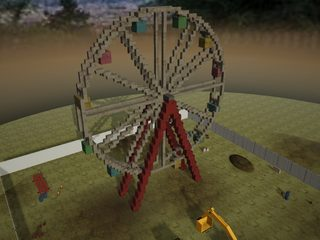
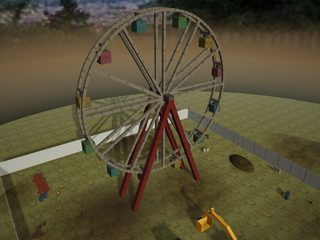
斜めの部材と丸い壁をなめらかな棒・板で描く、球場のグラウンド、照明塔のライト、鉄塔の筋交いを粗く

diff --git a/game.js b/game.js
@@ -331,12 +331,82 @@ const G = window.G = {};   // 確かめ用の口
     houseW(10, 50, 8, 8, 5, BIG);
     addFence(gx(-14), gz(26), 20, 3, "block"); addFence(gx(28), gz(12), 16, 3, "block");
   }
-  // 3D の線を格子で引く（a・b は格子の座標・小数でよい。kf は高さ y から種類を返す）
+  // なめらかな部材（10-26 本人「観覧車とか斜めの所がカクカクでマイクラみたい」）
+  // 斜めの棒・丸い壁は格子を隠し（c.hid）、本物の角棒・曲がった板で描く。格子は削る判定・崩れの判定のために残す
+  // 部材は 1.5m ほどの区間に切ってあり、区間のどこか 1 マスが削れると、その区間の絵が消える
+  const rods = []; let rodDirty = false, rodMesh = null;
+  function newRod(o) { const r = Object.assign({ cells: [], alive: true, ext: true }, o); rods.push(r); rodDirty = true; return r; }
+  function rodCell(r, x, y, z, kind) {
+    const k = key(x, y, z), had = bld.cells.get(k); addCell(x, y, z, kind);
+    const c = bld.cells.get(k); if (!had) c.hid = true;
+    (c.segs || (c.segs = [])).push(r); r.cells.push(c);
+  }
+  // 角棒（a→b、太さ t。u と w を渡すと横幅 w の板）を足す
+  function pushRod(r, pos, nor, uv, col, idx) {
+    if (r.wedge) return pushWedge(r, pos, nor, uv, col, idx);
+    const d = r.b.subtract(r.a), L = d.length(); if (L < 1e-4) return;
+    const w = d.scale(1 / L), e = r.ext ? r.t / 2 : 0;
+    const u = r.u || B.Vector3.Cross(w, Math.abs(w.y) < 0.9 ? B.Axis.Y : B.Axis.X).normalize(), v = B.Vector3.Cross(u, w).normalize();
+    const hu = (r.w || r.t) / 2, hv = r.t / 2, a = r.a.subtract(w.scale(e)), L2 = L + 2 * e, k = KIND_COL[r.kind];
+    const P = (i, j, s2) => a.add(w.scale(s2 * L2)).addInPlace(u.scale(i * hu)).addInPlace(v.scale(j * hv));
+    const quad = (ps, n, du, dv) => { const b0 = pos.length / 3; ps.forEach((q, i) => { pos.push(q.x, q.y, q.z); nor.push(n.x, n.y, n.z); uv.push([0, du, du, 0][i] / TEXM, [0, 0, dv, dv][i] / TEXM); col.push(k[0], k[1], k[2], 1); }); idx.push(b0, b0 + 1, b0 + 2, b0, b0 + 2, b0 + 3); };
+    quad([P(1, -1, 0), P(1, 1, 0), P(1, 1, 1), P(1, -1, 1)], u, 2 * hv, L2); quad([P(-1, -1, 0), P(-1, 1, 0), P(-1, 1, 1), P(-1, -1, 1)], u.negate(), 2 * hv, L2);
+    quad([P(-1, 1, 0), P(1, 1, 0), P(1, 1, 1), P(-1, 1, 1)], v, 2 * hu, L2); quad([P(-1, -1, 0), P(1, -1, 0), P(1, -1, 1), P(-1, -1, 1)], v.negate(), 2 * hu, L2);
+    quad([P(-1, -1, 1), P(1, -1, 1), P(1, 1, 1), P(-1, 1, 1)], w, 2 * hu, 2 * hv); quad([P(-1, -1, 0), P(1, -1, 0), P(1, 1, 0), P(-1, 1, 0)], w.negate(), 2 * hu, 2 * hv);
+  }
+  // 丸い板の一切れ（タンクの底・ふた）
+  function pushWedge(r, pos, nor, uv, col, idx) {
+    const k = KIND_COL[r.kind], C = (y) => new B.Vector3(r.c.x, y, r.c.z), A = (t, y) => new B.Vector3(r.c.x + Math.cos(t) * r.rad, y, r.c.z + Math.sin(t) * r.rad);
+    const tri = (ps, n) => { const b0 = pos.length / 3; for (const q of ps) { pos.push(q.x, q.y, q.z); nor.push(n.x, n.y, n.z); uv.push(q.x / TEXM, q.z / TEXM); col.push(k[0], k[1], k[2], 1); } if (ps.length === 3) idx.push(b0, b0 + 1, b0 + 2); else idx.push(b0, b0 + 1, b0 + 2, b0, b0 + 2, b0 + 3); };
+    tri([C(r.y1), A(r.t0, r.y1), A(r.t1, r.y1)], B.Axis.Y); tri([C(r.y0), A(r.t0, r.y0), A(r.t1, r.y0)], B.Axis.Y.negate());
+    const tm = (r.t0 + r.t1) / 2; tri([A(r.t0, r.y0), A(r.t1, r.y0), A(r.t1, r.y1), A(r.t0, r.y1)], new B.Vector3(Math.cos(tm), 0, Math.sin(tm)));
+  }
+  function rebuildRods() {
+    rodDirty = false;
+    if (!rodMesh) { rodMesh = new B.Mesh("rods", scene); rodMesh.material = bldM; rodMesh.receiveShadows = true; rodMesh.isPickable = false; shadow.addShadowCaster(rodMesh); }
+    const pos = [], nor = [], uv = [], col = [], idx = [];
+    for (const r of rods) if (r.alive) pushRod(r, pos, nor, uv, col, idx);
+    if (!idx.length) { rodMesh.setEnabled(false); return; }
+    const vd = new B.VertexData(); vd.positions = pos; vd.normals = nor; vd.uvs = uv; vd.colors = col; vd.indices = idx; vd.applyToMesh(rodMesh, false); rodMesh.setEnabled(true);
+  }
+  const gw = (gxv, gyv, gzv) => new B.Vector3(bld.origin.x + gxv * CELL, bld.origin.y + gyv * CELL, bld.origin.z + gzv * CELL);   // 格子の座標（小数）→ 世界の位置
+  // 3D の線を格子で引き、見た目は角棒（a・b は格子の座標・小数でよい。kf は高さ y から種類を返す）
   function lineCells(a, b, kf, th = 1) {
-    const n = Math.max(1, Math.ceil(Math.hypot(b[0] - a[0], b[1] - a[1], b[2] - a[2]) * 2));
+    const n = Math.max(1, Math.ceil(Math.hypot(b[0] - a[0], b[1] - a[1], b[2] - a[2]) * 2)), PER = 6;
+    const W = t => gw(a[0] + (b[0] - a[0]) * t + th / 2, a[1] + (b[1] - a[1]) * t + 0.5, a[2] + (b[2] - a[2]) * t + th / 2);
+    let r = null;
     for (let i = 0; i <= n; i++) {
       const t = i / n, x = Math.round(a[0] + (b[0] - a[0]) * t), y = Math.round(a[1] + (b[1] - a[1]) * t), z = Math.round(a[2] + (b[2] - a[2]) * t);
-      for (let dx = 0; dx < th; dx++) for (let dz = 0; dz < th; dz++) if (y >= 0) addCell(x + dx, y, z + dz, kf(y));
+      if (i % PER === 0 && i < n) { const t1 = Math.min(1, (i + PER) / n); r = newRod({ a: W(t), b: W(t1), t: th * CELL * 0.8, kind: kf(Math.round(a[1] + (b[1] - a[1]) * (t + t1) / 2)) }); }
+      for (let dx = 0; dx < th; dx++) for (let dz = 0; dz < th; dz++) if (y >= 0) rodCell(r, x + dx, y, z + dz, kf(y));
+    }
+  }
+  // 丸い壁（煙突・タンク）: 中心 cx,cz（格子の角）、半径は高さで変えられる rf(y)、厚さ th マス。見た目は 32 枚の曲がった板を帯ごとに
+  function ringWall(cx, cz, y0, y1, rf, th, kf, band) {
+    const NS = 32, segs = new Map();
+    const seg = (i, j) => {
+      const id = i + "," + j; if (segs.has(id)) return segs.get(id);
+      const ya = y0 + j * band, yb = Math.min(y1, ya + band), rm = rf((ya + yb) / 2) - th / 2, tm = (i + 0.5) / NS * Math.PI * 2;
+      const r = newRod({ a: gw(cx + rm * Math.cos(tm), ya, cz + rm * Math.sin(tm)), b: gw(cx + rm * Math.cos(tm), yb, cz + rm * Math.sin(tm)), t: th * CELL, w: 2 * Math.PI * rm * CELL / NS * 1.06,
+        u: new B.Vector3(-Math.sin(tm), 0, Math.cos(tm)), kind: kf(ya), ext: false });
+      segs.set(id, r); return r;
+    };
+    const R = Math.ceil(rf(y0)) + 1;
+    for (let y = y0; y < y1; y++) for (let x = -R; x <= R; x++) for (let z = -R; z <= R; z++) {
+      const rr = Math.hypot(x + 0.5, z + 0.5), ro = rf(y); if (rr > ro || rr <= ro - th) continue;
+      let t = Math.atan2(z + 0.5, x + 0.5); if (t < 0) t += Math.PI * 2;
+      rodCell(seg(Math.min(NS - 1, Math.floor(t / (Math.PI * 2) * NS)), Math.floor((y - y0) / band)), cx + x, y, cz + z, kf(y));
+    }
+  }
+  // 丸い板（タンクの底・ふた）: 16 切れ
+  function discCells(cx, cz, y0, y1, rad, kind) {
+    const NS = 16, cw = gw(cx, 0, cz), list = [];
+    for (let i = 0; i < NS; i++) list.push(newRod({ wedge: true, c: cw, rad: rad * CELL, t0: i / NS * Math.PI * 2, t1: (i + 1) / NS * Math.PI * 2, y0: bld.origin.y + y0 * CELL, y1: bld.origin.y + y1 * CELL, kind }));
+    const R = Math.ceil(rad);
+    for (let y = y0; y < y1; y++) for (let x = -R; x <= R; x++) for (let z = -R; z <= R; z++) {
+      if (Math.hypot(x + 0.5, z + 0.5) > rad) continue;
+      let t = Math.atan2(z + 0.5, x + 0.5); if (t < 0) t += Math.PI * 2;
+      rodCell(list[Math.min(NS - 1, Math.floor(t / (Math.PI * 2) * NS))], cx + x, y, cz + z, kind);
     }
   }
   // 送電の鉄塔: 4 本の脚がすぼまって高さ 40m。4m ごとに輪とバツの筋交い、上に 3 段の腕。赤白のしま
@@ -344,10 +414,10 @@ const G = window.G = {};   // 確かめ用の口
     const cx = gx(wx), cz = gz(wz), Hc = 80, w = y => 12 - 10 * y / Hc, kf = y => Math.floor(y / 16) % 2 ? "twr_w" : "twr_r";
     newB(6, true); curB.topple = true;
     const C = [[-1, -1], [1, -1], [1, 1], [-1, 1]];
-    for (let y = 0; y <= Hc; y++) for (const [sx, sz] of C) { const x = Math.round(cx + sx * w(y)), z = Math.round(cz + sz * w(y)); for (let a = -1; a < 1; a++) for (let b2 = -1; b2 < 1; b2++) addCell(x + a, y, z + b2, kf(y)); }
-    const P = (i, y) => [cx + C[i][0] * w(y), y, cz + C[i][1] * w(y)];
-    for (let y = 0; y < Hc; y += 10) {
-      const y2 = Math.min(Hc, y + 10);
+    const P = (i, y) => [cx + C[i][0] * w(y), y, cz + C[i][1] * w(y)], P2 = (i, y) => [cx + C[i][0] * w(y) - 1, y, cz + C[i][1] * w(y) - 1];
+    for (let i = 0; i < 4; i++) lineCells(P2(i, 0), P2(i, Hc), kf, 2);
+    for (let y = 0; y < Hc; y += 16) {
+      const y2 = Math.min(Hc, y + 16);
       for (let i = 0; i < 4; i++) { const j = (i + 1) % 4; lineCells(P(i, y2), P(j, y2), kf); lineCells(P(i, y), P(j, y2), kf); lineCells(P(j, y), P(i, y2), kf); }
     }
     for (const [ay, half] of [[58, 16], [68, 13], [78, 10]]) {
@@ -380,17 +450,15 @@ const G = window.G = {};   // 確かめ用の口
       newB(6, true); curB.topple = true;
       const x = gx(wx), z = gz(wz);
       for (let y = 0; y < 52; y++) for (let a = 0; a < 2; a++) for (let b2 = 0; b2 < 2; b2++) addCell(x + a, y, z + b2, y > 46 ? "twr_w" : "conc");
-      for (let y = 52; y < 58; y++) for (let a = -4; a < 6; a++) for (let b2 = 0; b2 < 2; b2++) addCell(x + a, y, z + b2, "twr_w");
+      for (let y = 52; y < 58; y++) for (let a = -4; a < 6; a++) for (let b2 = 0; b2 < 2; b2++) addCell(x + a, y, z + b2, y === 52 || y === 57 || a === -4 || a === 5 ? "steelc" : (a + y) % 2 ? "lamp" : "twr_w");   // ライトの升目
     }
   }
   // 工場の煙突: れんがの筒（下 3m・上 2.2m の半径、高さ 44m、上 10m は赤白）＋横にトタンの工場
   function buildChimney(wx, wz) {
     const cx = gx(wx), cz = gz(wz), Hc = 88;
     newB(6, true); curB.topple = true;
-    for (let y = 0; y < Hc; y++) {
-      const ro = 6 - 1.6 * y / Hc, ri = ro - 2, kind = y < Hc - 20 ? "brick" : Math.floor(y / 5) % 2 ? "twr_w" : "twr_r";
-      for (let x = -7; x <= 7; x++) for (let z = -7; z <= 7; z++) { const r = Math.hypot(x + 0.5, z + 0.5); if (r <= ro && r > ri) addCell(cx + x, y, cz + z, kind); }
-    }
+    ringWall(cx, cz, 0, Hc - 20, y => 6 - 1.6 * y / Hc, 2, () => "brick", 6);
+    ringWall(cx, cz, Hc - 20, Hc, y => 6 - 1.6 * y / Hc, 2, y => Math.floor(y / 5) % 2 ? "twr_w" : "twr_r", 5);
     addHouse(gx(-17), gz(14), 18, 14, 1, 9, TIN);
   }
   // 観覧車: 半径 13m の輪 2 枚＋スポーク 12 本＋ゴンドラ 12 個、A 字の脚 4 本。脚を削ると倒れる
@@ -418,13 +486,12 @@ const G = window.G = {};   // 確かめ用の口
     for (let i = 0; i < 4; i++) lineCells(P(i, 0), P(i, Hl), kf, 2);
     for (let y = 0; y < Hl; y += 12) for (let i = 0; i < 4; i++) { const j = (i + 1) % 4; lineCells(P(i, y + 12), P(j, y + 12), kf); lineCells(P(i, y), P(j, y + 12), kf); lineCells(P(j, y), P(i, y + 12), kf); }
     const RT = 11;
-    for (let y = Hl; y < Hl + 22; y++) {
-      const rr = y < Hl + 14 ? RT : RT * (1 - (y - Hl - 14) / 8), kind = y >= Hl + 6 && y < Hl + 8 ? "twr_r" : "tank";
-      for (let x = -RT - 1; x <= RT + 1; x++) for (let z = -RT - 1; z <= RT + 1; z++) {
-        const r = Math.hypot(x + 0.5, z + 0.5);
-        if (r <= rr && (y === Hl || y >= Hl + 13 || r > rr - 1.2)) addCell(cx + x, y, cz + z, kind);   // 底と屋根は中まで、胴は殻だけ
-      }
-    }
+    discCells(cx, cz, Hl, Hl + 1, RT, "tank");
+    ringWall(cx, cz, Hl + 1, Hl + 6, () => RT, 1, () => "tank", 5);
+    ringWall(cx, cz, Hl + 6, Hl + 8, () => RT, 1, () => "twr_r", 2);
+    ringWall(cx, cz, Hl + 8, Hl + 13, () => RT, 1, () => "tank", 5);
+    discCells(cx, cz, Hl + 13, Hl + 14, RT + 0.6, "tank");          // ふた（少しはみ出す）
+    discCells(cx, cz, Hl + 14, Hl + 16, 2.5, "steelc");             // ふたの上の換気口
   }
   // ガソリンスタンド: 柱 4 本の大きな屋根（柱を削ると屋根が落ちて崩れる）＋給油機＋奥の売店＋値段の看板（倒れる）
   function buildGas() {
@@ -455,9 +522,27 @@ const G = window.G = {};   // 確かめ用の口
     newB(6, true); curB.sinkR = 0.6; deck(P1 - 2, P2 + 2);
     for (const px of [P1, P2]) for (let x = px - 2; x < px + 2; x++) for (let y = 0; y < 10; y++) for (let z = Z0 + 1; z < Z1 - 1; z++) addCell(x, y, z, "conc");
   }
+  // 球場のグラウンド（土の内野と芝の外野）。格子ではなく地面に置く板
+  let fieldM = null;
+  function stadiumField(on) {
+    if (!fieldM) {
+      const dirt = new B.StandardMaterial("fieldDirt", scene); dirt.diffuseColor = new B.Color3(0.72, 0.5, 0.34); dirt.specularColor = B.Color3.Black();
+      const turf = new B.StandardMaterial("fieldTurf", scene); turf.diffuseColor = new B.Color3(0.34, 0.62, 0.3); turf.specularColor = B.Color3.Black();
+      const lineM = new B.StandardMaterial("fieldLine", scene); lineM.diffuseColor = new B.Color3(0.95, 0.95, 0.92); lineM.specularColor = B.Color3.Black();
+      const Hx = 0, Hz = 28, mk = [];
+      const fan = B.MeshBuilder.CreateDisc("fieldTurf", { radius: 34, arc: 0.25, tessellation: 48 }, scene);   // 外野: ホームから手前（-z）へ 90 度の扇
+      fan.rotation.x = Math.PI / 2; fan.rotation.y = Math.PI * 0.75; fan.position.set(Hx, 0.03, Hz); fan.material = turf; mk.push(fan);
+      const inf = B.MeshBuilder.CreateGround("fieldDirt", { width: 15, height: 15 }, scene);   // 内野: 菱形
+      inf.rotation.y = Math.PI / 4; inf.position.set(Hx, 0.05, Hz - 10.6); inf.material = dirt; mk.push(inf);
+      for (const sx of [-1, 1]) { const l = B.MeshBuilder.CreateGround("fieldLine", { width: 0.2, height: 34 }, scene); l.rotation.y = -sx * Math.PI / 4; l.position.set(Hx + sx * 12, 0.07, Hz - 12); l.material = lineM; mk.push(l); }
+      for (const m of mk) { m.receiveShadows = true; m.isPickable = false; m.material.backFaceCulling = false; }
+      fieldM = mk;
+    }
+    for (const m of fieldM) m.setEnabled(on);
+  }
   function buildBuilding() {
     for (const ch of chunks.values()) { if (ch.body) { ch.body.dispose(); ch.shape.dispose(); } ch.mesh.dispose(); }
-    chunks.clear(); chunkGen++; bld.cells.clear(); winSet.clear(); blds.length = 0; dirtyB.clear(); curB = null;
+    chunks.clear(); chunkGen++; bld.cells.clear(); winSet.clear(); blds.length = 0; dirtyB.clear(); curB = null; rods.length = 0; rodDirty = true;
     for (const q of sinks) q.m.dispose(); sinks.length = 0; for (const q of fading) q.m.dispose(); fading.length = 0;
     const S = STAGES[stage];
     if (S.sky) addHouse(-4, 0, 24, 16, FLOORS, FH / CELL, BIG);       // 30 階: 12m × 8m・高さ 90m
@@ -471,6 +556,7 @@ const G = window.G = {};   // 確かめ用の口
     else if (S.kind === "gas") buildGas();
     else if (S.kind === "bridge") buildBridge();
     else addHouse(0, 0, BW / CELL, BD / CELL, FLOORS, FH / CELL);     // 真ん中のビル 16 × 12、1 階 6 段
+    stadiumField(S.kind === "stadium");
     if (S.town) {
       // まち: 右に木造の家（2 階・切妻屋根）とブロック塀、左にトタンの倉庫、右奥にプレハブ小屋（格子 0.5m。ビルの左手前の角 = 世界の x -4, z 14）
       addHouse(24, -2, 12, 10, 2, 5, WOOD);
@@ -494,10 +580,11 @@ const G = window.G = {};   // 確かめ用の口
   const KIND_COL = { wall: [1, 0.98, 0.94], slab: [0.78, 0.78, 0.78], pillar: [0.9, 0.88, 0.85],   // 写真素材に掛ける色（壁・床・柱で少し変える）
     wood: [0.78, 0.55, 0.34], beam: [0.5, 0.33, 0.2], wfloor: [0.62, 0.48, 0.36], roof: [0.3, 0.33, 0.42],      // 木造の家（茶色の板壁・こげ茶の柱・紺の瓦）
     block: [0.86, 0.84, 0.76], tin: [0.62, 0.72, 0.8], steelc: [0.5, 0.55, 0.6], tinroof: [0.66, 0.36, 0.3],     // ブロック塀・トタンの倉庫（水色の壁・赤さびの屋根）
-    prefab: [0.95, 0.92, 0.75],
+    prefab: [0.95, 0.92, 0.75],                                                                                    // プレハブ小屋（クリーム色）
     twr_r: [0.86, 0.22, 0.16], twr_w: [0.95, 0.95, 0.93], fire: [0.8, 0.13, 0.1], firew: [0.96, 0.95, 0.92],      // 鉄塔（赤白）・消防署（赤と白）
-    seat: [0.2, 0.42, 0.85], seat2: [0.95, 0.55, 0.15], conc: [0.8, 0.79, 0.77], brick: [0.66, 0.38, 0.27],
-    g1: [0.95, 0.42, 0.6], g2: [0.98, 0.82, 0.22], g3: [0.36, 0.8, 0.42], g4: [0.3, 0.74, 0.95], tank: [0.64, 0.79, 0.87], brg: [0.22, 0.45, 0.76] };   // 観覧車のゴンドラ 4 色・給水塔のタンク・橋の桁   // 球場の席（青・橙）・コンクリ・煙突のれんが                                                                              // プレハブ小屋（クリーム色）
+    seat: [0.2, 0.42, 0.85], seat2: [0.95, 0.55, 0.15], conc: [0.8, 0.79, 0.77], brick: [0.66, 0.38, 0.27],      // 球場の席（青・橙）・コンクリ・煙突のれんが
+    g1: [0.95, 0.42, 0.6], g2: [0.98, 0.82, 0.22], g3: [0.36, 0.8, 0.42], g4: [0.3, 0.74, 0.95], tank: [0.64, 0.79, 0.87], brg: [0.22, 0.45, 0.76],
+    lamp: [1.25, 1.2, 0.95] };   // 観覧車のゴンドラ 4 色・給水塔のタンク・橋の桁・照明のライト（明るめ）
   const FACE = [
     { n: [1, 0, 0], u: [0, 0, 1], v: [0, 1, 0] }, { n: [-1, 0, 0], u: [0, 0, 1], v: [0, 1, 0] },
     { n: [0, 1, 0], u: [1, 0, 0], v: [0, 0, 1] }, { n: [0, -1, 0], u: [1, 0, 0], v: [0, 0, 1] },
@@ -519,11 +606,12 @@ const G = window.G = {};   // 確かめ用の口
     const pos = [], nor = [], uv = [], col = [], idx = [], h = CELL / 2;
     const bp = [], bn = [], bu = [], bc = [], bi = [], bars = [];
     for (const c of ch.cells) {
+      if (c.hid) continue;                 // なめらかな部材の中の格子（絵は rodMesh）
       const k = KIND_COL[c.kind], vary = 0.94 + ((c.x * 7 + c.y * 13 + c.z * 5) % 7) * 0.012;
       for (const f of FACE) {
-        const nk = key(c.x + f.n[0], c.y + f.n[1], c.z + f.n[2]);
-        if (bld.cells.has(nk)) continue;     // 隣が埋まっている面は見えない
-        if (bld.orig && bld.orig.has(nk)) {   // 壊れた断面
+        const nk = key(c.x + f.n[0], c.y + f.n[1], c.z + f.n[2]), nc = bld.cells.get(nk);
+        if (nc && !nc.hid) continue;     // 隣が埋まっている面は見えない
+        if (!nc && bld.orig && bld.orig.has(nk)) {   // 壊れた断面
           pushFace(c, f, k, vary, 1.4, 1, bp, bn, bu, bc, bi);
           // 鉄筋: 面ごとに 0〜2 本、少し曲がって飛び出す（位置は格子の座標から決まるので毎回同じ）
           const hsh = Math.abs((c.x * 73856093) ^ (c.y * 19349663) ^ (c.z * 83492791) ^ (f.n[0] * 3 + f.n[1] * 5 + f.n[2] * 7)) % 1000;
@@ -584,6 +672,7 @@ const G = window.G = {};   // 確かめ用の口
   }
   // 壊れた塊だけ組み直す。鉄筋・窓枠・ガラスは全部の塊のをまとめて 1 回で描く
   function rebuildCellMesh() {
+    if (rodDirty) rebuildRods();
     let any = false;
     for (const ch of chunks.values()) if (ch.dirty) { ch.dirty = false; buildChunk(ch); any = true; }
     if (!any) return;
@@ -601,10 +690,16 @@ const G = window.G = {};   // 確かめ用の口
   }
   const NBD = [[1, 0, 0], [-1, 0, 0], [0, 1, 0], [0, -1, 0], [0, 0, 1], [0, 0, -1], [0, 2, 0], [0, -2, 0]];
   function removeCell(c) {
+    if (bld.cells.get(key(c.x, c.y, c.z)) !== c) return;   // もう消えている（部材の巻き添えで先に消えた等）
     bld.cells.delete(key(c.x, c.y, c.z));
     const ch = chunkOf(c.x, c.y, c.z, false); if (ch) { ch.cells.delete(c); ch.dirty = true; }
     for (const d of NBD) { const n = chunkOf(c.x + d[0], c.y + d[1], c.z + d[2], false); if (n) n.dirty = true; }   // 隣の塊の面・窓も変わる
     if (c.b) { c.b.cells.delete(c); if (c.y < c.b.baseY) c.b.baseN--; dirtyB.add(c.b); }
+    // 部材の区間: 1 マス削れたら区間の絵を消し、ほかの区間に属さない残りの格子も消す（見えない格子が支えに残らないように）
+    if (c.segs) for (const r of c.segs) if (r.alive) {
+      r.alive = false; rodDirty = true;
+      for (const o of r.cells) if (o !== c && o.segs.every(q => !q.alive)) removeCell(o);
+    }
   }
   // p の周り（x ±rx・z ±rz・高さ ymax まで）に格子があるか（全部の格子を調べずに、その辺りの番号だけ見る）
   function cellsNear(p, rx, rz, ymax) {
@@ -641,8 +736,10 @@ const G = window.G = {};   // 確かめ用の口
       x0 = Math.min(x0, c.p.x); x1 = Math.max(x1, c.p.x); z0 = Math.min(z0, c.p.z); z1 = Math.max(z1, c.p.z); y0 = Math.min(y0, c.p.y); y1 = Math.max(y1, c.p.y);
       kinds[c.kind] = (kinds[c.kind] || 0) + 1;
       const k = KIND_COL[c.kind], vary = 0.94 + ((c.x * 7 + c.y * 13 + c.z * 5) % 7) * 0.012;
-      for (const f of FACE) { const n = bld.cells.get(key(c.x + f.n[0], c.y + f.n[1], c.z + f.n[2])); if (n && set.has(n)) continue; pushFace(c, f, k, vary, TEXM, f.n[1] < 0 ? 0.7 : 1, pos, nor, uv, col, idx); }
+      if (c.hid) continue;
+      for (const f of FACE) { const n = bld.cells.get(key(c.x + f.n[0], c.y + f.n[1], c.z + f.n[2])); if (n && set.has(n) && !n.hid) continue; pushFace(c, f, k, vary, TEXM, f.n[1] < 0 ? 0.7 : 1, pos, nor, uv, col, idx); }
     }
+    { const rs = new Set(); for (const c of list) if (c.segs) for (const r of c.segs) if (r.alive) rs.add(r); for (const r of rs) pushRod(r, pos, nor, uv, col, idx); }   // なめらかな部材も同じ塊に
     // 窓ガラスも一緒に沈める（無いと窓が全部 穴に見えた）
     const pp = [], pn = [], pi = [], h2 = CELL / 2;
     for (const w of winSet) {

diff --git a/tools/thumbs.js b/tools/thumbs.js
@@ -17,7 +17,9 @@
       let x0 = 1e9, x1 = -1e9, z0 = 1e9, z1 = -1e9, y1 = 0;
       for (const c of G.bld.cells.values()) { x0 = Math.min(x0, c.p.x); x1 = Math.max(x1, c.p.x); z0 = Math.min(z0, c.p.z); z1 = Math.max(z1, c.p.z); y1 = Math.max(y1, c.p.y); }
       hide(["hitMk", "goalArrow"]); await ready();
-      if (i === 5) cam(V(0, 2, 10), 70, 0.95, -Math.PI / 2 - 0.6); else fit(x0, x1, y1, z0, z1);
+      if (i === 5) cam(V(0, 2, 10), 70, 0.95, -Math.PI / 2 - 0.6);
+      else if (i === 12) cam(V(0, 3, 22), 44, 0.9, -Math.PI / 2 - 0.35);   // ガソリンスタンドは見下ろして奥の売店も入れる
+      else fit(x0, x1, y1, z0, z1);
       await BOT.step(4); await BOT.snap(`th_d${i}.jpg`);
     }
     G.camAt = null;

diff --git a/index.html b/index.html
@@ -290,7 +290,7 @@ html,body{margin:0;height:100%;background:#1b2838;overflow:hidden;touch-action:n
     await Promise.all([worker(), worker(), worker(), worker()]);
   } catch (e) { console.warn("先読みできませんでした", e); }
   msg.textContent = "準備中…";
-  for (const src of ["vendor/babylon.js", "vendor/HavokPhysics_umd.js", "vendor/babylonjs.loaders.min.js", "game.js?v=115"]) {
+  for (const src of ["vendor/babylon.js", "vendor/HavokPhysics_umd.js", "vendor/babylonjs.loaders.min.js", "game.js?v=117"]) {
     await new Promise((ok, ng) => { const sc = document.createElement("script"); sc.src = src; sc.onload = ok; sc.onerror = ng; document.body.appendChild(sc); });
   }
 })();

diff --git a/context/README.md b/context/README.md
@@ -231,3 +231,11 @@
 - 残り（本人が見てから）: 鉄塔の格子がまだ詰まって見える・球場にグラウンドの絵が無い・照明塔のライトが看板に見える
 - 10-25 さらに 4 つ（こわす 11〜14）v115: かんらんしゃ（buildWheel・輪 2 枚＋ゴンドラ 12・A 字の脚）／きゅうすいとう（buildWaterTower・開いた脚＋丸いタンク）／ガソリンスタンド（buildGas・柱 4 本の屋根は柱を削ると崩れる 888 マス・値段の看板は倒れる・奥に売店）／はし（buildBridge・真ん中の径間は片方の橋脚を削ると落ちる）
 - 建物ごとの sinkR（根元がこの割合より減ったら沈む／倒れる。既定 0.45）。脚 4 本の物は 0.55 にして前の 2 本で倒れるように。橋の真ん中は 0.6
+
+## 10-26 斜めの部材をなめらかに＋見た目の残り v116〜v117
+- 本人「観覧車とか斜めの所がカクカクでマイクラみたい。滑らかに」
+- なめらかな部材（rods）: lineCells・ringWall・discCells で作った格子は c.hid で隠し、見た目は rodMesh（角棒・曲がった板・丸い板の一切れ）で描く。格子は削る判定・崩れ・倒れる判定に残る。区間は約 1.5m（丸い壁は 32 枚×帯）。1 マス削れると区間の絵が消え、他の区間に属さない残りの格子も消す（removeCell の c.segs）。沈む・倒れる時は sinkSet が部材も同じ塊に入れる
+- 使っている所: 鉄塔（脚も棒に・筋交い 8m ごと）・観覧車（輪・スポーク・脚）・給水塔（脚・筋交い・タンクの丸い壁とふた・底）・煙突（丸い壁）
+- 隠した格子は物理の当たり（塊のメッシュ）に入らないので、ショベルの体は棒をすり抜ける。バケットで削る判定は格子なので効く
+- 球場: 地面に芝の扇と土の内野・白線（stadiumField）。照明塔のライトは明るい升目（lamp）
+- 残り: 球場のスタンドの外周（格子の円）と消防署・橋は四角いまま。ガソリンスタンドのカードの絵で売店が見えにくい
